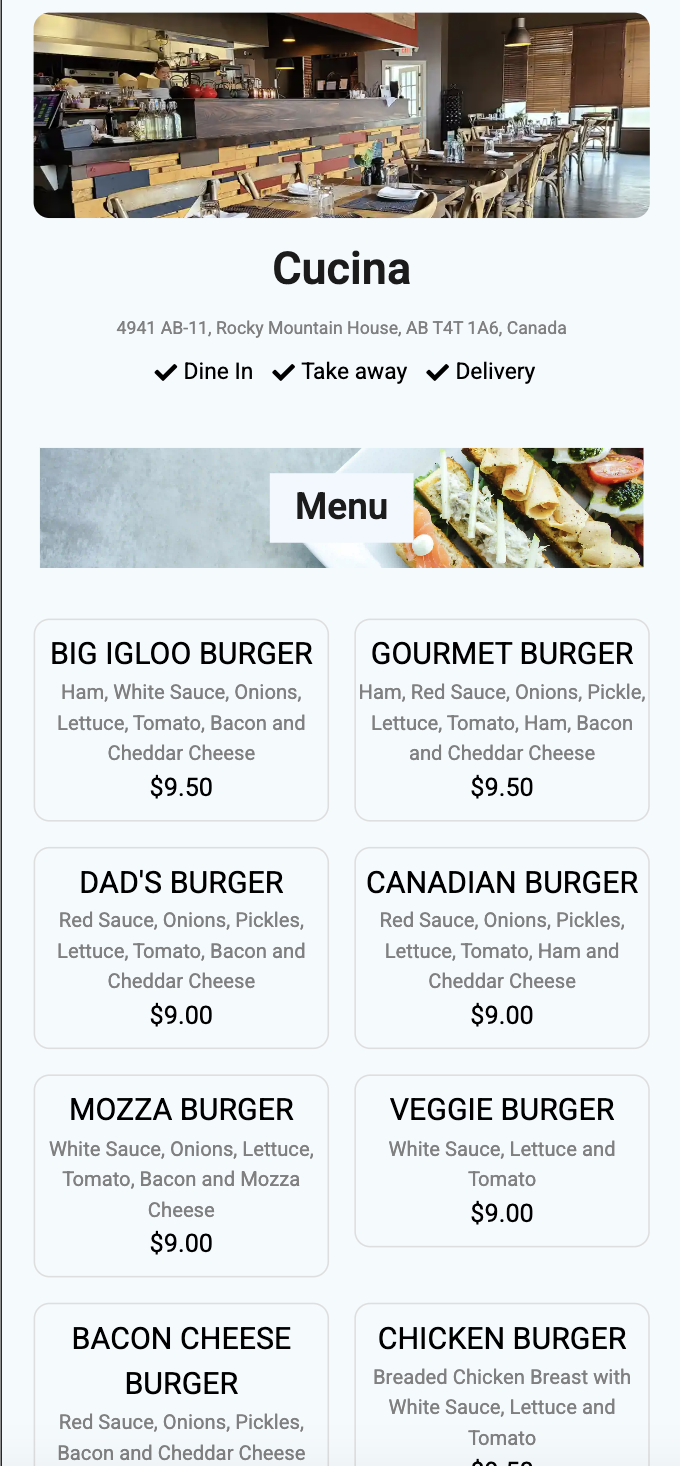
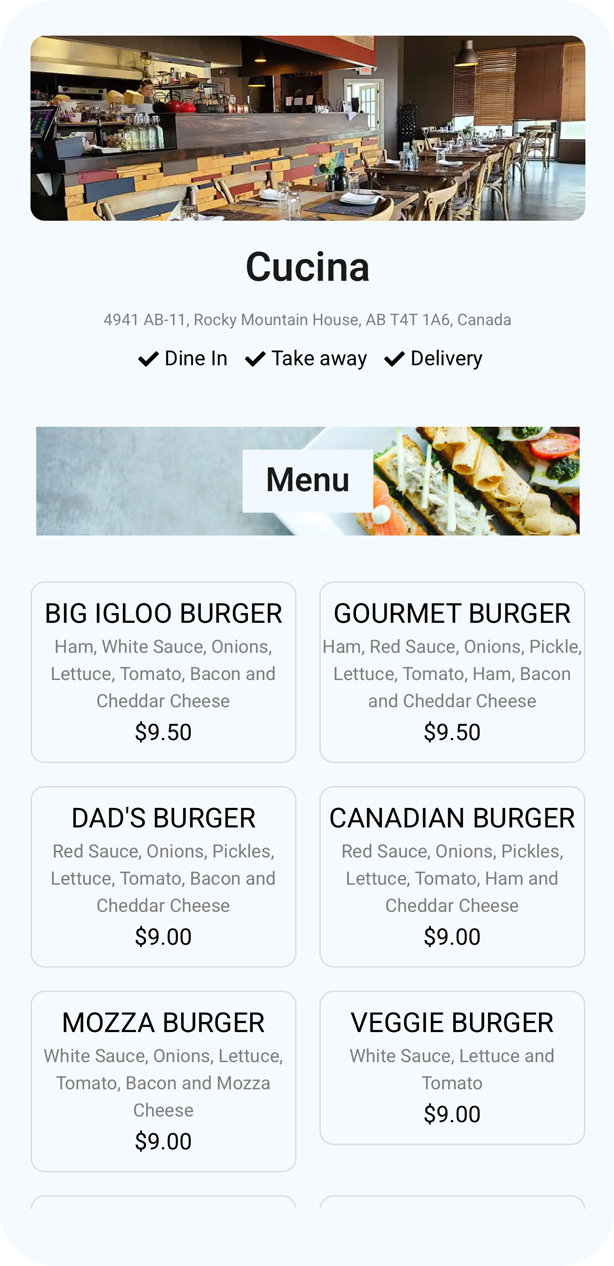
add mobile screenshot

diff --git a/src/pages/Home.jsx b/src/pages/Home.jsx
@@ -59,10 +59,14 @@ const Home = () => {
                             </div>
 
 
-                            <div className='col-12 col-lg-6 flex' position='relative' >
-                                <div className='flex' style={{justifyContent: 'flex-end', alignItems: 'center', width: '100%'}}>
-                                    <img src={MobileView} alt="mobile-web-view" style={{width: '40%', transform: 'translate(100px, 140px)'}}/>
-                                    <img src={WebView} alt="menu-web-view" style={{width: '80%', marginTop: '30px'}}/>
+                            <div className='col-12 col-lg-6 flex'>
+                                <div className='flex' style={{justifyContent: 'flex-end', alignItems: 'center', width: '100%', position: 'relative'}}>
+                                    <div className='mobile-web-view-cont' >
+                                        <img src={MobileView} alt="mobile-web-view" style={{width: '100%'}}/>
+                                    </div>
+                                    <div style={{width: '90%'}}>
+                                        <img src={WebView} alt="menu-web-view" style={{width: '100%', marginTop: '30px'}}/>
+                                    </div>
                                 </div>
                             </div>
 
@@ -71,10 +75,10 @@ const Home = () => {
                 </section>
 
                 {/* Overflow */}
-                <section className='pd-v-100' style={{position: 'relative'}}>
+                <section className='pd-v-50' style={{position: 'relative'}}>
                     <Circle size="300px" style={{backgroundColor: 'var(--primary-color)', position: 'absolute', top: '50%', transform: 'translate(-70%, -50%)'}}/>
 
-                    <div className="container" style={{marginTop: '100px'}}>
+                    <div className="container">
                         <div className="row">
 
                             <div className="col-12 col-lg-6">
@@ -86,16 +90,16 @@ const Home = () => {
                                     isSelected={selectedStep == 3} onClick={() => onClcikStep(3)}/>
                             </div>
                             <div className="col-12 col-lg-6 flex-center">
-                                <img src={MobileView} alt="" style={{height: '700px'}}/>
+                                <img src={MobileView} alt="" style={{height: '600px'}}/>
                             </div>
                         </div>
                     </div>
                 </section>
 
                 {/* Menu Showcase */}
-                <section className='' style={{backgroundColor: '#222222'}}>
-                    <div className='container ' >
-                        <h3 className=' clr-light' style={{fontSize: '3rem', padding: '60px 0'}}>Built With Pie Menu</h3>
+                <section className='pd-v-50' style={{backgroundColor: '#222222'}}>
+                    <div className='container'>
+                        <h3 className='' style={{fontSize: '3rem', marginBottom: '40px', color: 'var(--light-color)'}}>Built with pie menu</h3>
 
                         {/* <div className='flex' style={{justifyContent: 'space-around'}}>
                             <MenuProjectCard />
@@ -119,7 +123,7 @@ const Home = () => {
                 </section>
 
                 {/* Client Reviews */}
-                <section className='pd-v-100'>
+                <section className='pd-v-50'>
                     <div className="container">
 
                         <h3 className='' style={{fontSize: '3rem', marginBottom: '40px'}}>Clients' Feedback</h3>
@@ -140,11 +144,9 @@ const Home = () => {
                 </section>
 
                 {/* Whats Next */}
-                <section className='pd-b-100'>
+                <section className='pd-v-50' style={{backgroundColor: 'var(--primary-color)'}}>
                     <div className="container">
                         <div className="row" style={{display: 'flex', alignItems: 'center'}}>
-
-                            
 
                             <div className="col-12 col-lg-5">
                                 <h3 className='' style={{fontSize: '3rem', marginBottom: 0}}>Whats Next</h3>
@@ -176,11 +178,10 @@ const Home = () => {
                             <div className="col-lg-2 d-none d-lg-block">
 
                             </div>
-                            <div className="col-12 col-lg-5 d-none d-lg-block">
+                            <div className="col-12 col-lg-5 col-md-6 d-none d-lg-block">
                                 <div className="row" >
                                     <div style={{display: 'flex', gap: '20px', justifyContent: 'flex-end', alignItems: 'center'}}>
                                         <div className="col-4 col-lg-3">
-
                                             <FoodOrderItem image={Burger}/>
                                         </div>
                                         <div className="col-4" style={{position: 'relative'}}>
@@ -199,7 +200,7 @@ const Home = () => {
                 </section>
 
                 {/* Bottom details */}
-                <section className='' style={{paddingBottom: '100px'}}>
+                <section className='pd-v-50' >
                     <div className="container">
                         <div style={{display: 'flex', gap: '20px',flexDirection: 'column', alignItems: 'center'}}>
                             <h3 className='' style={{fontSize: '3rem', marginBottom: 0}}>Easy Menu</h3>

diff --git a/src/index.css b/src/index.css
@@ -42,6 +42,17 @@
   /* background-color: aqua; */
 }
 
+.mobile-web-view-cont{
+  width: 45%;
+  box-shadow: 0px 0px 10px rgb(164, 164, 164);
+  border-radius: 20px; 
+  overflow: hidden;
+  transform: translateX(-70px);
+  position: absolute; 
+  left: 0;
+  bottom: 0;
+}
+
 /* Flex */
 .flex{
   display: flex;
@@ -68,9 +79,7 @@
 .pd-20{
   padding: 20px;
 }
-.pd-v-100{
-  padding: 100px 0;
-}
+
 
 /* Size */
 .h-100v{
@@ -79,9 +88,16 @@
 .w-100v{
   height: 100vw;
 }
+.pd-v-100{
+  padding: 100px 0;
+}
+.pd-v-50{
+  padding: 50px 0;
+}
 .pd-b-100{
   padding-bottom: 100px;
 }
+
 
 
 
